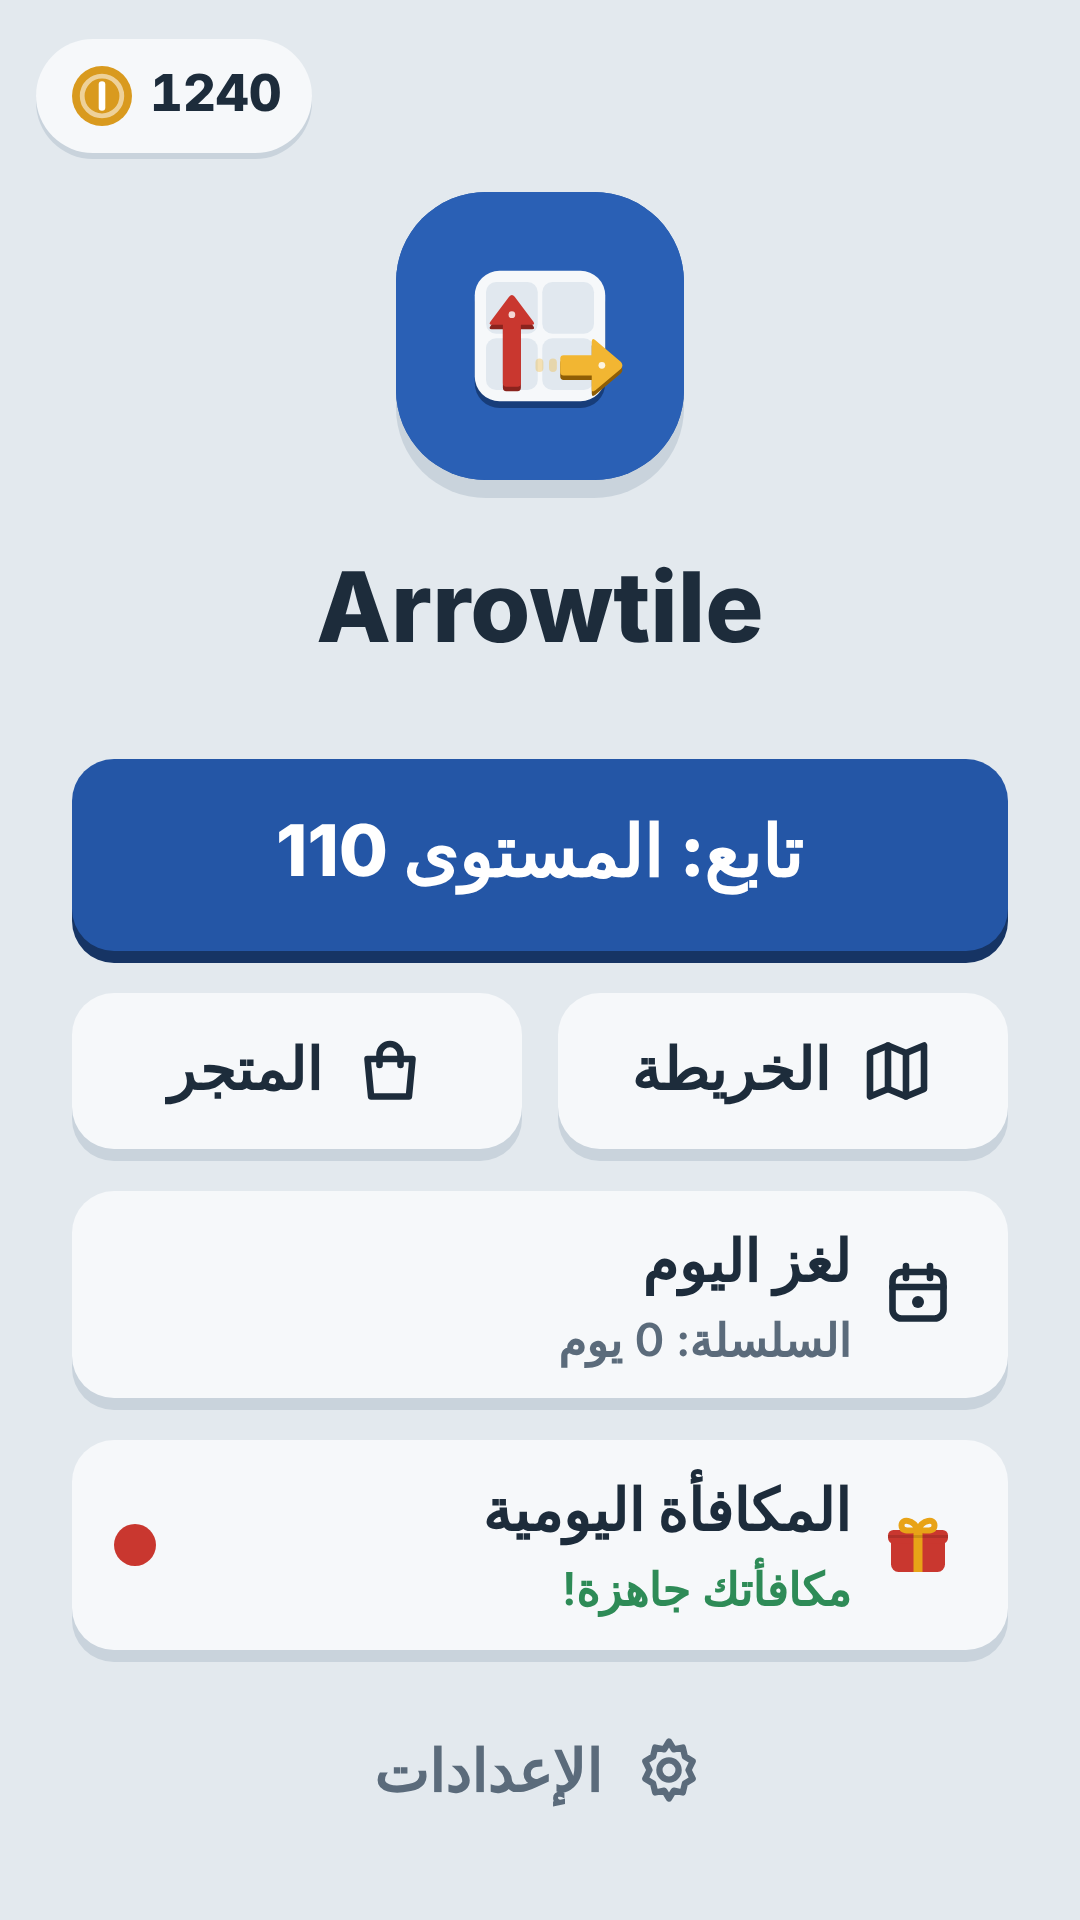
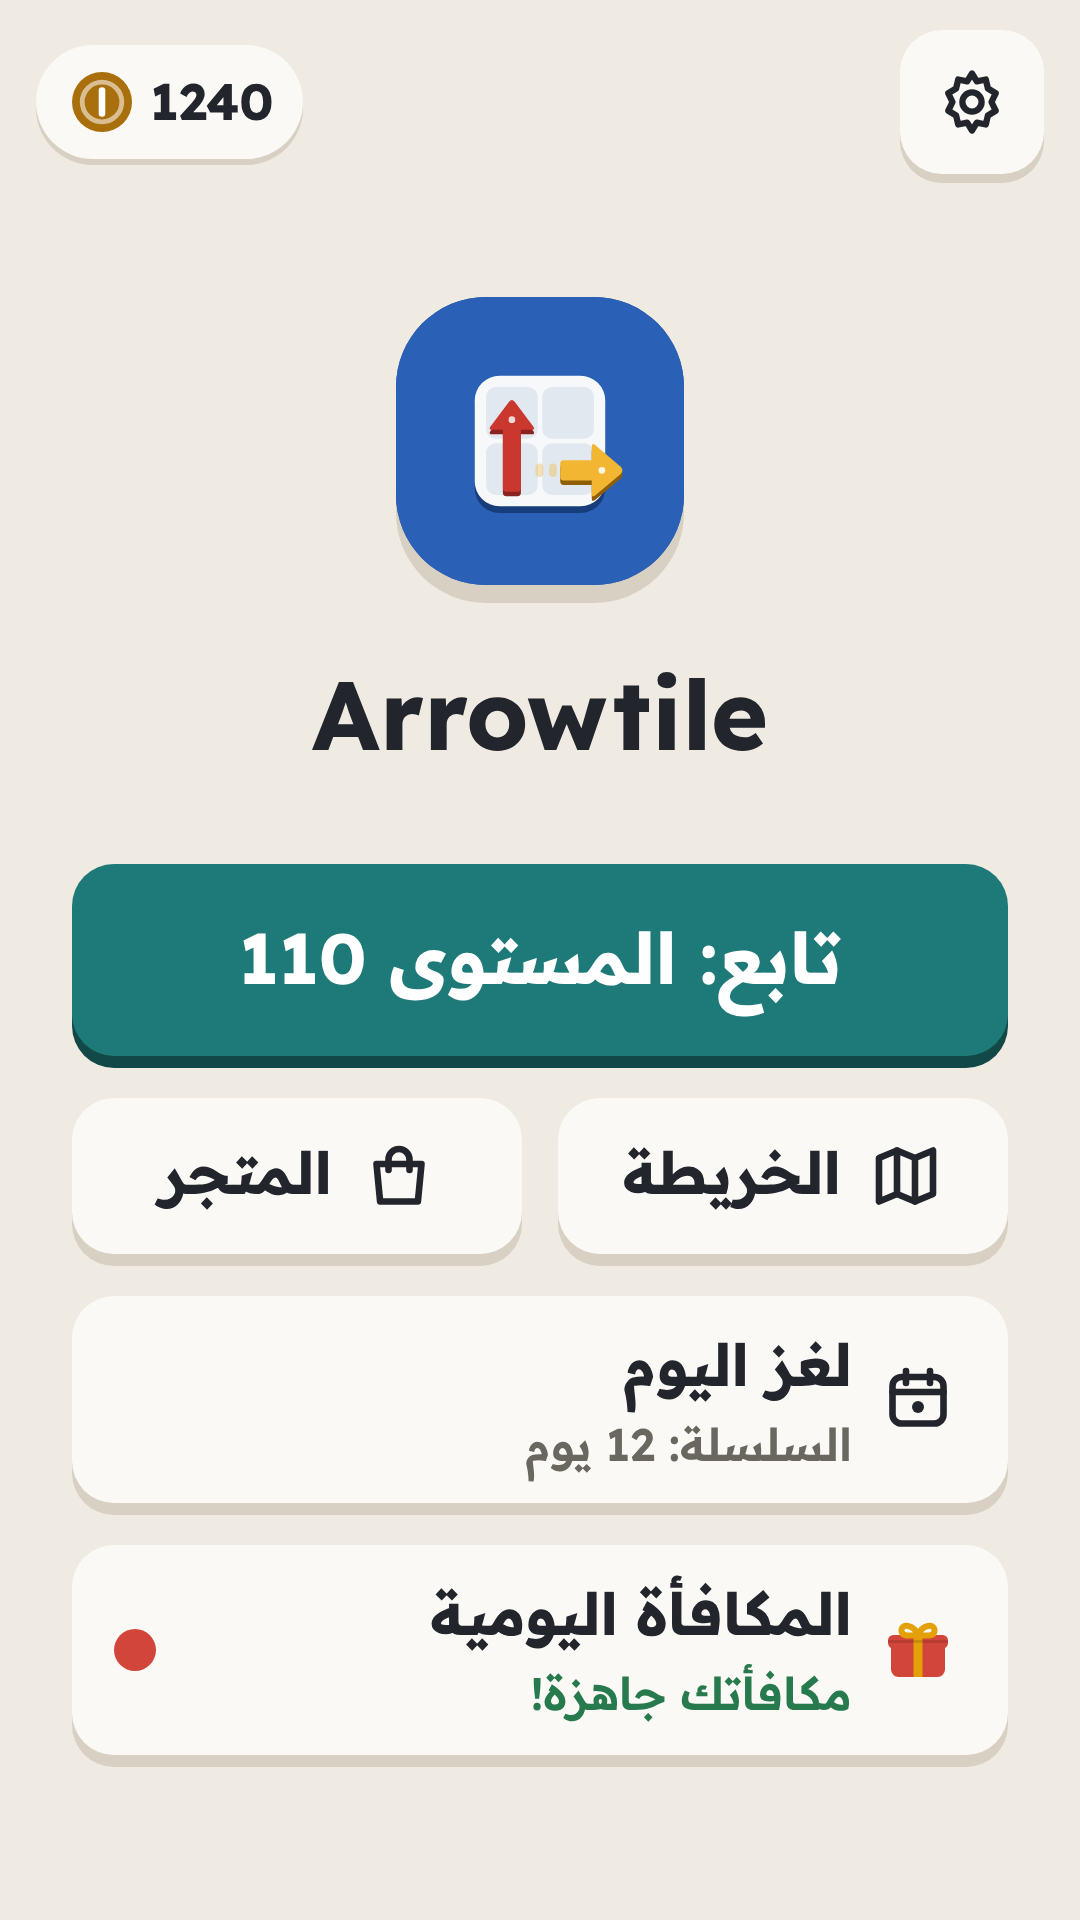
Mağaza görselleri Kum ve Mürekkep paletiyle yenilendi
- Özellik grafiği (4 dil) yeniden tasarlandı: kum zemin, simge adayının
  tahtası ve okları, Emaye paletinde soluk ok deseni, Readex Pro (Arapça
  dahil; DejaVu yedeği kalktı). Renkler design/colors.json'dan okunur.
- 24 ekran görüntüsü gerçek oyundan yeniden çekildi (?debug olmadan).
- make-store-assets.py: sanal listelenen haritada düğüme kaydırma
  yardımcısı; örnek kayıttaki tarihler çekim gününe göre (takvim ve seri
  boş görünmüyordu); adFree ile web önizlemenin 'Reklam alanı' yer
  tutucusu görselde çıkmıyor.
- Başlatıcı simgesi değişmedi; icon-candidates/README.md'ye Play
  mağaza denemesi adımları eklendi.

Claude-Session: https://claude.ai/code/session_01WGctgFKWwXvQwFNsiQEvgE

diff --git a/tools/android/make-store-assets.py b/tools/android/make-store-assets.py
@@ -26,22 +26,37 @@ FG = {
 UP = 'M190 340 L190 236 L170 236 Q164 236 168 230 L201 186 Q206 180 211 186 L244 230 Q248 236 242 236 L222 236 L222 340 Q222 346 216 346 L196 346 Q190 346 190 340 Z'
 
 
+def colors():
+    """design/colors.json (renklerin tek kaynağı) — açık tema paleti ve Emaye ok renkleri."""
+    src = json.load(open(os.path.join(ROOT, 'design', 'colors.json'), encoding='utf-8'))
+    pal = {k: v['light'] for k, v in src['palette'].items() if isinstance(v['light'], str)}
+    emaye = next(t for t in src['arrowThemes'] if t['id'] == 'emaye')['colors']
+    return pal, emaye
+
+
 def board_svg():
-    """game/assets/icon.svg'deki tahta + iki ok (mavi arka plan olmadan)."""
+    """Kum ve Mürekkep simge adayındaki tahta + iki ok (store/icon-candidates/icon-512.svg, zemin olmadan)."""
     import re
-    svg = open(os.path.join(ROOT, 'game', 'assets', 'icon.svg'), encoding='utf-8').read()
+    svg = open(os.path.join(STORE, 'icon-candidates', 'icon-512.svg'), encoding='utf-8').read()
     inner = svg[svg.index('>', svg.index('<svg')) + 1: svg.rindex('</svg>')]
     inner = re.sub(r'<!--.*?-->', '', inner, flags=re.S)
-    inner = re.sub(r'^\s*<rect width="512" height="512"[^>]*/>\s*<circle cx="256" cy="256" r="300"[^>]*/>', '', inner, flags=re.S)
-    return f'<svg class="board" viewBox="120 120 300 280" xmlns="http://www.w3.org/2000/svg">{inner}</svg>'
+    inner = re.sub(r'<defs>.*?</defs>', '', inner, flags=re.S)
+    inner = re.sub(r'<rect width="512" height="512"[^>]*/>', '', inner)
+    return f'<svg class="board" viewBox="112 112 340 300" xmlns="http://www.w3.org/2000/svg">{inner}</svg>'
 
 
-def feature_html(lang, icon_b64):
+def font_face():
+    """Readex Pro (oyunla aynı, SIL OFL) — Latin + Arapça; data URI olarak gömülür (ağ yok)."""
+    ttf = base64.b64encode(open(os.path.join(ROOT, 'game', 'assets', 'fonts', 'ReadexPro-VF.ttf'), 'rb').read()).decode()
+    return f'@font-face{{font-family:"Readex Pro";src:url(data:font/ttf;base64,{ttf}) format("truetype");font-weight:160 700}}'
+
+
+def feature_html(lang):
+    """1.2.2: "Kum ve Mürekkep" özellik grafiği — kum zemin, kâğıt tahta, Emaye okları, Readex Pro (docs/02 v2)."""
     sub, chips, tag = FG[lang]
     rtl = lang == 'ar'
-    font = '"DejaVu Sans", sans-serif' if rtl else 'Poppins, "DejaVu Sans", sans-serif'
-    # arka plan: oyundaki gibi dik açılı küçük oklar (soluk)
-    cols = ['#C9372F', '#F2B632', '#3FA36B', '#7E57C2', '#E0E8F0']
+    pal, emaye = colors()
+    # arka plan: oyundaki gibi dik açılı küçük oklar (soluk, Emaye paleti)
     deco = ''
     k = 0
     for gy in range(-1, 6):
@@ -51,37 +66,35 @@ def feature_html(lang, icon_b64):
                 continue
             rot = [0, 90, 180, 270][(gx * 3 + gy * 5) % 4]
             deco += (f'<svg class="deco" style="left:{gx * 96 + (gy % 2) * 40}px;top:{gy * 96 + 10}px;transform:rotate({rot}deg)" '
-                     f'viewBox="160 170 100 190" width="34" height="64"><path d="{UP}" fill="{cols[k % 5]}"/></svg>')
+                     f'viewBox="160 170 100 190" width="34" height="64"><path d="{UP}" fill="{emaye[k % 5]}"/></svg>')
     chips_html = ''.join(f'<span class="chip">{c}</span>' for c in chips)
     side = 'right' if rtl else 'left'
     other = 'left' if rtl else 'right'
     return f'''<!doctype html><html lang="{lang}" dir="{'rtl' if rtl else 'ltr'}"><head><meta charset="utf-8"><style>
+{font_face()}
 html,body{{margin:0;width:1024px;height:500px;overflow:hidden}}
-body{{font-family:{font};color:#fff;background:linear-gradient({'250deg' if rtl else '110deg'},#1D4A90 0%,#2456A6 45%,#2E66BF 100%);position:relative}}
+body{{font-family:"Readex Pro",sans-serif;color:{pal['ink']};background:{pal['bg']};position:relative}}
 .decos{{position:absolute;inset:0;overflow:hidden}}
-.deco{{position:absolute;opacity:.13}}
-.glow{{position:absolute;top:50px;{side}:30px;width:420px;height:420px;border-radius:50%;background:radial-gradient(circle,rgba(255,255,255,.28) 0,rgba(255,255,255,0) 68%)}}
-.board{{position:absolute;top:58px;{side}:44px;width:400px;height:373px;filter:drop-shadow(0 22px 30px rgba(6,20,50,.45))}}
-.txt{{position:absolute;top:0;bottom:0;{side}:478px;{other}:48px;display:flex;flex-direction:column;justify-content:center}}
-h1{{margin:0;font-size:92px;line-height:1;font-weight:700;letter-spacing:-1px;font-family:Poppins,sans-serif;direction:ltr;text-align:{'right' if rtl else 'left'}}}
-h2{{margin:12px 0 0;font-size:{46 if rtl else 42}px;font-weight:{700 if rtl else 600};color:#FFD978;line-height:1.15}}
-p{{margin:14px 0 0;font-size:{23 if rtl else 22}px;color:#E2EBF8;line-height:1.35}}
-.chips{{margin-top:24px;display:flex;gap:10px;flex-wrap:wrap}}
-.chip{{background:rgba(255,255,255,.16);border:2px solid rgba(255,255,255,.4);border-radius:999px;padding:7px 16px;font-size:{20 if rtl else 19}px;font-weight:600;white-space:nowrap}}
+.deco{{position:absolute;opacity:.16}}
+.board{{position:absolute;top:50px;{side}:36px;width:420px;height:371px;filter:drop-shadow(0 18px 22px rgba(34,37,43,.22))}}
+.txt{{position:absolute;top:0;bottom:0;{side}:486px;{other}:48px;display:flex;flex-direction:column;justify-content:center}}
+h1{{margin:0;font-size:92px;line-height:1;font-weight:700;letter-spacing:-1px;direction:ltr;text-align:{'right' if rtl else 'left'}}}
+h2{{margin:14px 0 0;font-size:{44 if rtl else 40}px;font-weight:700;color:{pal['accent']};line-height:1.2}}
+p{{margin:12px 0 0;font-size:22px;color:{pal['inkSoft']};line-height:1.4;font-weight:500}}
+.chips{{margin-top:24px;display:flex;gap:12px;flex-wrap:wrap}}
+.chip{{background:{pal['board']};box-shadow:0 3px 0 {pal['boardEdge']};border-radius:999px;padding:8px 18px;font-size:19px;font-weight:700;white-space:nowrap}}
 </style></head><body>
 <div class="decos">{deco}</div>
-<div class="glow"></div>
 {board_svg()}
 <div class="txt"><h1>Arrowtile</h1><h2>{sub}</h2><p>{tag}</p><div class="chips">{chips_html}</div></div>
 </body></html>'''
 
 
 def make_features(p):
-    icon_b64 = base64.b64encode(open(os.path.join(STORE, 'play-icon-512.png'), 'rb').read()).decode()
     b = p.chromium.launch()
     page = b.new_page(viewport={'width': 1024, 'height': 500}, device_scale_factor=1)
     for lang in LANGS:
-        page.set_content(feature_html(lang, icon_b64))
+        page.set_content(feature_html(lang))
         page.evaluate('document.fonts.ready')
         time.sleep(0.2)
         out = os.path.join(STORE, f'feature-graphic-{lang}.png')
@@ -91,22 +104,29 @@ def make_features(p):
 
 
 def seed_state(lang):
+    # 1.2.2: tarihler çekim gününe göre (sabit tarih ay değişince takvimi ve seriyi boş gösteriyordu)
+    import datetime
+    today = datetime.date.today()
+    yday = today - datetime.timedelta(days=1)
     stars = {}
     for i in range(1, 110):
         stars[str(i)] = 3 if i % 7 else 2
     done = {}
-    for d in range(1, 31):
-        if d not in (6, 18):
-            done[f'2026-10-{d:02d}'] = 3 if d % 4 else 2
+    for back in range(1, 41):  # son 40 gün; iki gün boş, son 12 gün kesintisiz (seri 12)
+        d = today - datetime.timedelta(days=back)
+        if back in (15, 27):
+            continue
+        done[d.isoformat()] = 3 if back % 4 else 2
     return {
         'lang': lang, 'sound': True, 'vibration': True, 'coins': 1240, 'freeHints': 2,
         'stars': stars, 'unlocked': 110, 'themesOwned': ['emaye', 'lokum', 'cini'], 'theme': 'emaye',
-        'daily': {'lastDate': '2026-10-31', 'streakDay': 3},
+        'daily': {'lastDate': yday.isoformat(), 'streakDay': 3},
         'tutorialDone': [1, 2, 3], 'chapterBonus': list(range(1, 10)),
-        'ads': {'since': 0, 'lastAt': 0, 'adFree': False, 'test': False},
+        # adFree: mağaza görsellerinde web önizlemenin kesikli "Reklam alanı" yer tutucusu görünmesin
+        'ads': {'since': 0, 'lastAt': 0, 'adFree': True, 'test': False},
         'appearance': 'light', 'relaxed': False, 'aim': False,
         'tips': ['curve_tip', 'aim_suggest', 'zoom_tip'],
-        'dp': {'done': done, 'streak': 12, 'best': 12, 'last': '2026-10-30', 'trophies': 28},
+        'dp': {'done': done, 'streak': 12, 'best': 12, 'last': yday.isoformat(), 'trophies': 28},
     }
 
 
@@ -130,16 +150,29 @@ def make_shots(p):
             page.screenshot(path=os.path.join(out, name))
             print(lang, name)
 
+        def to_level(n):
+            # 1.2.2: harita sanal listelenir (yalnızca görünen bölümler çizilir) → düğüm görünene dek aşağı/yukarı kaydır
+            sel = f'#map-scroll .node[data-level="{n}"]'
+            for step in range(400):
+                if page.locator(sel).count():
+                    break
+                page.evaluate("""([n, step]) => { const sc = document.getElementById('map-scroll');
+                  const nodes = [...sc.querySelectorAll('.node[data-level]')].map(e => +e.dataset.level);
+                  const lo = nodes.length ? Math.min(...nodes) : Infinity;
+                  sc.scrollTop += (n < lo ? 1 : -1) * sc.clientHeight * 0.8; sc.dispatchEvent(new Event('scroll')); }""", [n, step])
+                time.sleep(0.05)
+            page.locator(sel).scroll_into_view_if_needed()
+
         shot('01-menu.png')
         # 2) kolay seviye (bölüm 1)
         page.click('#btn-map'); page.wait_for_selector('#scr-map.active'); time.sleep(0.5)
-        page.locator('#map-scroll .node[data-level="5"]').scroll_into_view_if_needed()
+        to_level(5)
         page.click('#map-scroll .node[data-level="5"]'); page.wait_for_selector('#scr-game.active'); time.sleep(0.8)
         shot('02-kolay-seviye.png')
         # 3) aşırı zor seviye (bölüm 9, seviye 100)
         page.click('#btn-pause'); page.wait_for_selector('#pause-map'); page.click('#pause-map'); page.wait_for_selector('#scr-map.active')
         time.sleep(0.4)
-        page.locator('#map-scroll .node[data-level="100"]').scroll_into_view_if_needed()
+        to_level(100)
         page.click('#map-scroll .node[data-level="100"]'); page.wait_for_selector('#scr-game.active'); time.sleep(1.0)
         page.evaluate("var t=document.getElementById('toast'); if(t) t.classList.remove('show')")
         shot('03-asiri-zor-seviye.png')

diff --git a/store/icon-candidates/README.md b/store/icon-candidates/README.md
@@ -17,3 +17,18 @@ kiremit ok #E0703C, zemin mürekkep #22252B. Çizim mevcut simgeyle aynı (2x2 t
 Deneme önerisi: Play Console › Büyüme › Mağaza girişi denemeleri › varsayılan grafikler › Simge; %50 / %50, en az 7 gün, ölçüt
 "ilk kez yükleyenler" (dönüşüm). Kazanırsa simge ayrı bir sürümde uygulamaya da (mipmap + adaptive-icon) taşınır; PNG'ler
 `node` + Playwright ile SVG'den yeniden üretilebilir.
+
+## 1.2.2 durumu: mağaza görselleri yenilendi, simge denemeye hazır
+
+- `store/feature-graphic-*.png` (4 dil) ve `store/screenshots/<dil>/` (24 adet) "Kum ve Mürekkep" paletiyle yeniden üretildi:
+  `python3 tools/android/make-store-assets.py`. Özellik grafiği renkleri `design/colors.json`'dan okur, tahta ve oklar bu klasördeki
+  adaydan alınır, yazı tipi Readex Pro'dur (Arapça dahil). Ekran görüntüleri gerçek oyundandır; menüdeki logo, simge kararı
+  verilene dek yayındaki kobalt simgedir.
+- Başlatıcı simgesi ve `store/play-icon-512.png` **değişmedi**. Karar: önce Play mağaza denemesi (sahip onayı, 1.2.2).
+
+### Deneme adımları (Play Console)
+1. Büyüme › Mağaza girişi denemeleri › **Varsayılan grafikler denemesi oluştur**.
+2. Deneme özelliği: **Uygulama simgesi**. Varyant A: mevcut (`store/play-icon-512.png`). Varyant B: `store/icon-candidates/icon-512.png`.
+3. Hedef kitle: %50 / %50. Ölçüt: **İlk kez yükleyenler** (elde tutulanlar değil). En az 7 gün, tercihen 14.
+4. Sonuç: B anlamlı biçimde kazanırsa ayrı bir sürümde simgeyi uygulamaya taşıyın (`tools/android/make-icons.py` adaptive katmanlar +
+   `game/assets/icon.svg`), sonra `make-store-assets.py` ile ekran görüntülerini yeniden üretin. Kaybederse ya da fark yoksa mevcut simge kalır.
